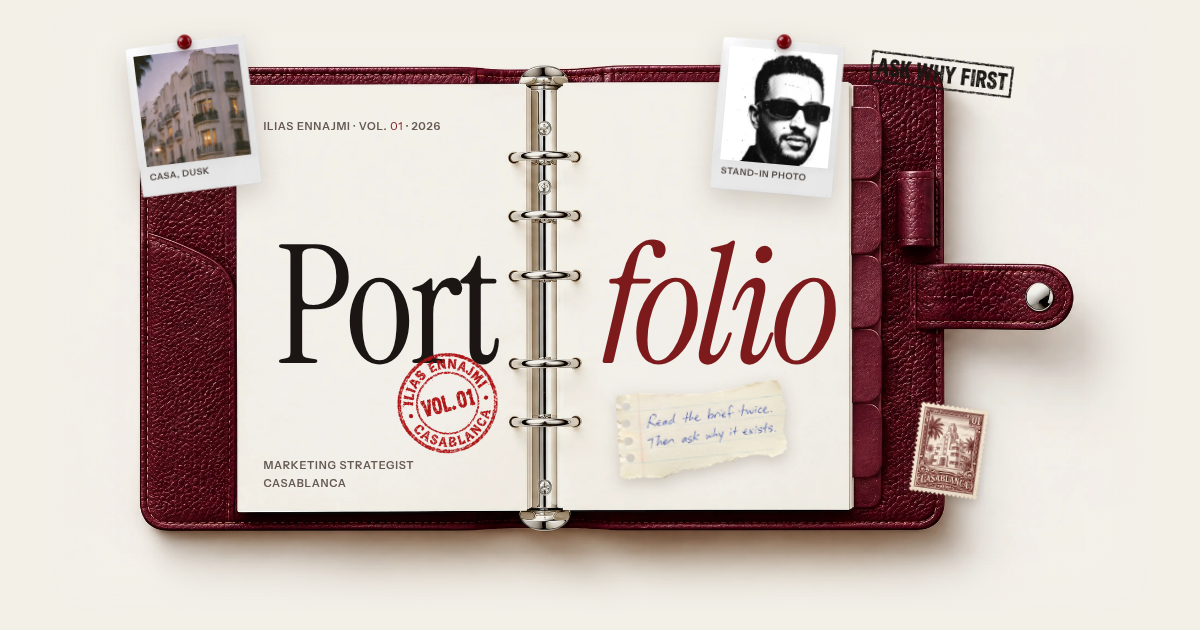
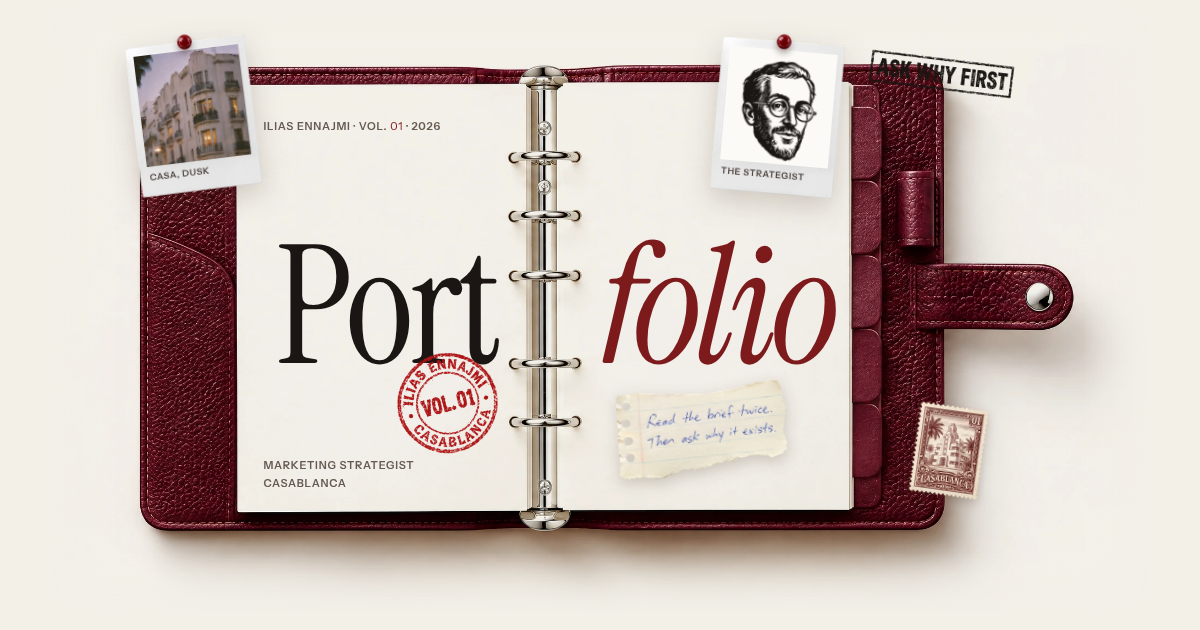
Portfolio: the essay site's engraved face, redrawn calm
Replace the generated stand-in portrait with the site's own engraved face
(public/logo-mark.svg), redrawn without the shock and the red splat. One
character, a different expression per context:

- confident: the pinned print on the cover and the mark beside the name
- sharp, one eyebrow raised: the overlap in "Who I am"
- warm: the About portrait and the footer call to action
- composed: the staff badge on What I do
- thinking: beside "What I was thinking" on case pages

The share image is refreshed to match, and the "stand-in photo" labels
are gone.

Claude-Session: https://claude.ai/code/session_017dcNxoXqykhQpiD3fp3tTy

Changed region(s): [[0.6167, 0.0905, 0.7092, 0.3016]]

diff --git a/src/styles/portfolio.css b/src/styles/portfolio.css
@@ -695,3 +695,31 @@ html[data-view="contact"] .foot .q,html[data-view="contact"] .foot .fa{display:n
   .totop{bottom:calc(76px + env(safe-area-inset-bottom,0px));right:max(14px,calc(env(safe-area-inset-right,0px) + 14px));width:44px;height:44px}
   .links li .btn{margin-bottom:8px}
 }
+
+/* ---------- the face: the essay site's engraving, redrawn calm ----------
+   One character, a different expression per context: confident on the
+   cover and as the mark, sharp in "Who I am", warm on About and in the
+   footer, composed on the badge, thinking beside the case notes. */
+.nav .name{display:inline-flex;align-items:center;gap:10px}
+.nav .name .mark{width:36px;height:36px;flex:none;transition:transform .5s var(--ease)}
+.nav .name:hover .mark{transform:rotate(-8deg) scale(1.08)}
+.print .ph.face-ph{object-fit:contain;padding:6% 8% 0;background:#fbfaf6}
+.v-face{width:21%;transform:translate(-50%,-50%);mix-blend-mode:normal;filter:drop-shadow(0 10px 14px rgba(40,5,8,.35))}
+.about-top .face>img.portrait{width:86%;margin-inline:auto;mix-blend-mode:normal;filter:none}
+.face-round{left:-2%;top:auto;bottom:2%;width:28%}
+.face-post{right:2%;top:2%}
+.idcard .ph{background:#fbfaf6}
+.idcard .ph img{object-fit:contain;object-position:50% 60%;padding:8% 6% 0}
+.aside{position:relative}
+.aside-face{position:absolute;right:0;top:-34px;width:64px;height:auto;transform:rotate(6deg)}
+.foot .q{display:flex;align-items:center;gap:16px}
+.q-face{width:54px;height:auto;flex:none}
+@media (max-width:900px){
+  .face-round{left:0;top:auto;bottom:0;width:26%}
+  .v-face{width:30%;top:47%}
+}
+@media (max-width:700px){
+  .nav .name .mark{width:30px;height:30px}
+  .nav .name{gap:8px}
+  .q-face{width:44px}
+}

diff --git a/PRODUCT.md b/PRODUCT.md
@@ -28,7 +28,7 @@ A separate, unlisted section for showing work to people Ilias sends the link to.
 
 - Unlisted means: `noindex` meta, an `X-Robots-Tag` header in `vercel.json`, filtered out of the sitemap in `astro.config.mjs`, and never linked from the essay site's nav, footer, tab bar, search index, RSS or `llms.txt`. Do not add it to `robots.txt` (that would advertise the path and stop crawlers from seeing the noindex).
 - Pages: home, `work/` (index + one page per case from `src/lib/portfolio.ts`), `what-i-do/`, `about/`, `contact/`. Images live in `public/portfolio/img/` and were generated for the design; nothing there is a third-party asset.
-- **Everything factual on it is still a placeholder** (as of November 2026): the three cases are samples stamped "Sample case", the portrait is a generated stand-in labelled as such, and the client names, experience rows and result figures are empty slots. The "never overstate what's real" principle below applies here too: swap in real content, never dress the samples up as real.
+- **Everything factual on it is still a placeholder** (as of November 2026): the three cases are samples stamped "Sample case", the portrait is the essay site's engraved face redrawn with calm expressions (`face-*.webp`, generated from `public/logo-mark.svg`; a real photo may replace it later), and the client names, experience rows and result figures are empty slots. The "never overstate what's real" principle below applies here too: swap in real content, never dress the samples up as real.
 
 ## Capabilities and Constraints
 
